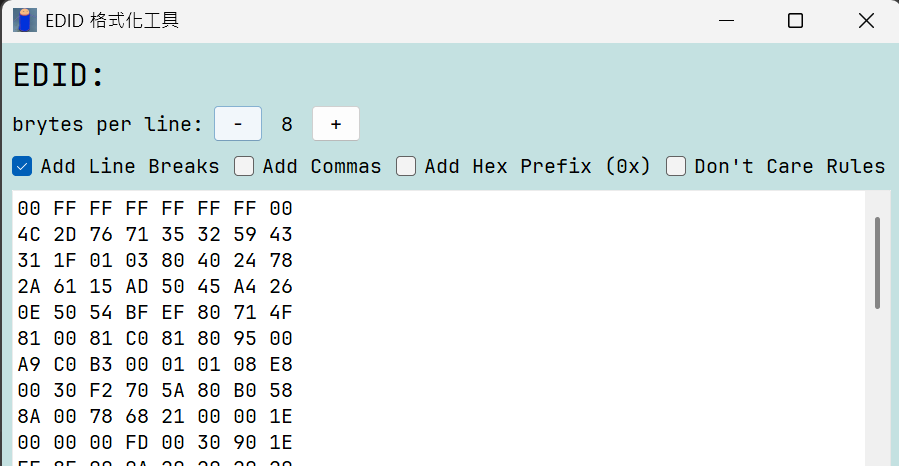
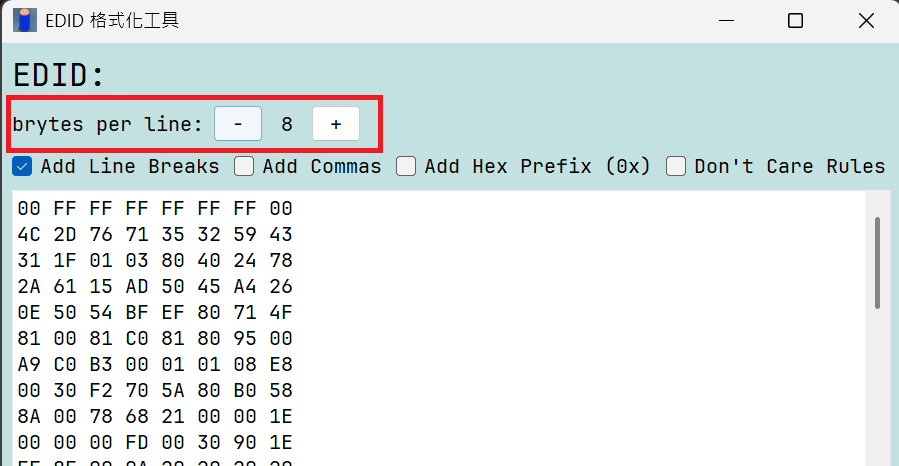
update readme for v1.1

Changed region(s): [[0.0, 0.1803, 0.436, 0.3305]]

diff --git a/README.md b/README.md
@@ -6,47 +6,40 @@
 
 <!-- markdownlint-disable MD033 -->
 <details>
-<summary>沒有EDID解析器請看這裡</summary>
+<summary>沒有EDID解析器需手動抓取資料</summary>
 
-## 開始之前
+## 取得EDID登錄在windows的reg檔案
 
-取得EDID登錄在windows的reg檔案
-
-1. `win+R` 輸入`regedit`打開登錄檔，找到以下路徑
+1. `win+R` 輸入`regedit`打開登錄檔，填入以下路徑位置
 
         電腦\HKEY_LOCAL_MACHINE\SYSTEM\CurrentControlSet\Enum\DISPLAY
-    <img src="./picture/image.png" width="400">
+    <img src="./picture/image.png" width="600">
 
-    這些都是顯示器的名稱，前三碼為`製造商ID`，後四碼為`產品名稱`
+    這些都是顯示器的名稱，前三碼為`製造商ID`，後四碼為`產品名稱或編號`
 
-2. 以`SAM7176`為例，打開後會看到兩個名稱很長的資料夾
+2. 以`SAM7176`為例，依序點擊路徑到`Device Parameters`，你會看到`EDID`出現在右方欄位
 
-    <img src="./picture/image_2.png" width="400">
+    <img src="./picture/image_1.png" width="600">
 
-    `UID4145`與`UID8261`，在我的筆電上分別代表HDMI與DP介面，其他電腦我不確定名稱是否相同
+    `UID4145`與`UID8261`，在我的筆電上分別代表HDMI與DP介面，
+    打開後會出現所有讀取的資料，不同的UID代表不同的註冊方式，其他UID代表甚麼介面請自行驗證~
 
-3. 點選其中一個資料夾，選擇`Device Parameters`
+3. 點選`EDID`後，點選左上方的`檔案 > 匯出`
 
-    你會看到`EDID`出現在右方欄位
+    <img src="./picture/image_2.png" width="600">
 
-    <img src="./picture/image_3.png" width="1000">
+4. 選擇匯出檔案的位置(以桌面為例)，選擇匯出格式為`文字檔案(*.txt)`，輸入任何儲存名稱並按下`存檔`
+    <img src="./picture/image_3.png" width="600">
+5. 到儲存位置(以桌面為例)查看你的匯出檔案
 
-4. 匯出資料，左上方工具列選擇`檔案->匯出`
+    <img src="./picture/image_4.png" width="600">
 
-    <img src="./picture/image_5.png" width="450">
+</details>
 
-5. 存檔類型選擇`文字檔案*.txt`，避免妳沒有編輯器可以看內容
+<details>
+<summary>編輯EDID原始的登錄檔案</summary>
 
-    <img src="./picture/image_4.png" width="550">
-
-    <img src="./picture/image-4.png" alt="save type" width="500">
-6. 完成EDID原始資料的匯出
-
-    <img src="./picture/image_6.png" width="1000">
-
-## 編輯EDID原始檔案
-
-上一章節提到如何得到EDID檔案，這一章節告訴你如何將它改成實用的EDID檔案
+上一章節提到如何得到EDID檔案，這一章節告訴你如何將它改成實用的EDID文件
 
 * 這是一個Samsung顯示器的EDID登錄檔
 
@@ -134,6 +127,27 @@
 </details>
 <!-- markdownlint-enable MD033 -->
 
+## 下載應用程式
+
+* [EDID格式化工具 v1.1.exe](<dist/EDID格式化工具 v1.1.exe>)(35MB) - 下載即用
+
+## What's New
+
+### 現在可以改變換行的字節單位(更新於v1.1)
+
+每16字節換行
+
+<img src="./picture/image_14.png" width="600">
+
+每8字節換行
+
+<img src="./picture/image_15.png" width="600">
+
+### 加大的`Format!`
+
+調配功能方塊的配置位置，加大`Format`按鍵
+<img src="./picture/image_20.png" width="1000">
+
 ## 介面
 
 * 應用程式圖示
@@ -144,7 +158,7 @@
 
     <img src="./picture/image_8.png" width="600">
 
-## How to use EDID格式化工具
+## How to use
 
 * 貼上你的EDID，選擇想要的功能，接著按下`Format!`
 
@@ -154,28 +168,45 @@
 
     <img src="./picture/image_10.png" width="600">
 
-* 現在可以改變換行的字節單位(更新於v1.1)
-
-    每16字節換行
-
-    <img src="./picture/image_14.png" width="600">
-
-    每8字節換行
-
-    <img src="./picture/image_15.png" width="600">
-
 ## 可格式化的EDID樣式
+
+以下字符皆可忽略不計，適合稍微有些個人風格的文件
 
 * 帶有`0x`前綴
 * 帶有`-` `,`標點符號
 * 帶有`空格` `換行`命令字元
 
-以上都可以完全忽略，請參考範例
+使用時請注意文件內容，即使功能強大，仍然有需遵守的基本規矩，請參考範例
 
-* 帶有所有可忽略的格式EDID
+* 字元數須為128的倍數
+
+    <img src="./picture/image_16.png" width="600">
+
+    按下`Format!`會出現`Error parsing EDID: EDID length must be a multiple of 128 bytes`的錯誤提示
+
+    <img src="./picture/image_17.png" width="600">
+
+* 當你只是想要格式化某些資料，請勾選`Don't Care Rules`(特殊用途)
+
+    <img src="./picture/image_18.png" width="600">
+
+    按下`Format!`將不會提供錯誤訊息，會直接格式化內容
+    <img src="./picture/image_19.png" width="600">
+
+* 帶有所有可忽略的格式EDID(這是將一個正常的EDID做一些格式變化，屬於極端例子，請使用格式乾淨的內容運行)
 
     <img src="./picture/image_12.png" width="600">
 
 * Format!
 
     <img src="./picture/image_13.png" width="600">
+
+## 贊助
+
+如果這對你的幫助勝過於每月的AI訂閱費用，請不吝嗇於支持我，因為這些看似簡單的小工具可能花費我半年甚至更多的時間完成
+
+[Buy Me a Coffee](<https://buymeacoffee.com/z123477788e>)
+
+---
+
+*本工具幫助工程師更快速、準確地分析EDID資料，提升顯示器相關問題的排查效率。*
